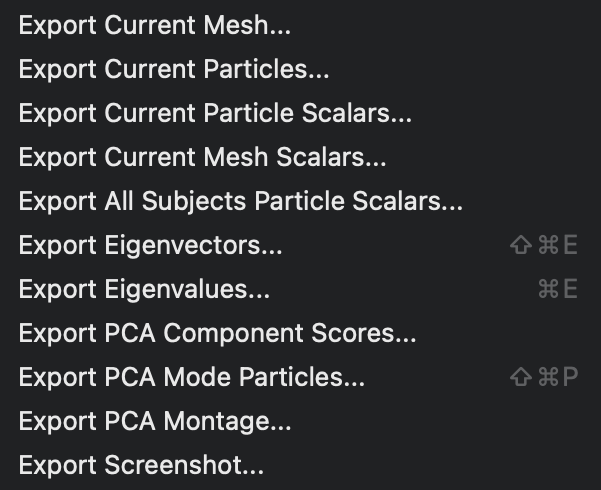
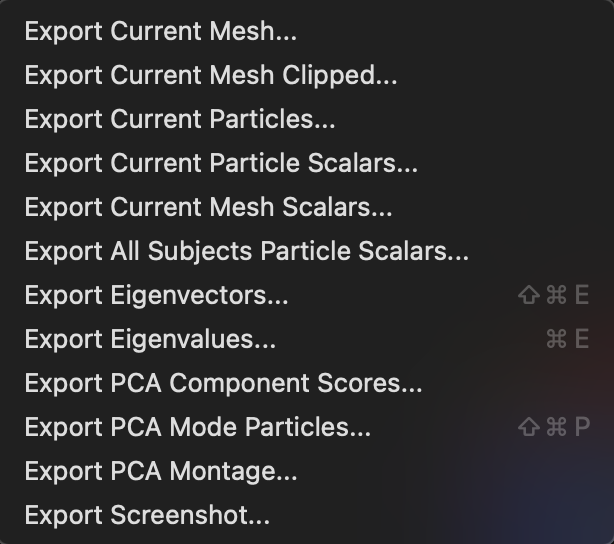
Update optimize panel docs, add export clipped mesh, remove duplicate constraints page
Document all optimization parameters to match redesigned panel UI.
Add Export Current Mesh Clipped to export docs. Delete orphaned
using-constraints.md and redirect its link to studio-data.md.  Update
optimize panel and export menu screenshots.

diff --git a/docs/studio/studio-optimize.md b/docs/studio/studio-optimize.md
@@ -15,14 +15,21 @@ Optimization Parameters
 | Ending Regularization | Sets the ending regularization value. See details about regularization [here](../workflow/optimize.md#starting-and-ending-regularization)  |
 | Iterations per Split | The number of iterations in the initialization step for each split (i.e., scale) |
 | Optimization Iterations | Number of iterations for each optimization step. |
-| Geodesic Distance | Enable the use of geodesic distance for particle to particle interactions.  This is much slower, but can help with some complex structures/ |
+| Narrow Band | Number of voxels surrounding zero level for distance transform based optimizations. Normally a value of 4 is sufficient |
+| Geodesic Distance | Enable the use of geodesic distance for particle to particle interactions. This is much slower, but can help with some complex structures |
+| Geodesic Remesh Percent | Percentage of vertices to use when remeshing for geodesic computation (default: 100). Lower values speed up geodesic calculations |
 | Normals | Enable the use of surface normals as a correspondence feature |
-| Normals Strength | Amount to scale surface normals feature to give it enough weight relative to XYZ. |
-| Procrustes | Enable use of procrustes registration as part of optimization |
-| Procrustes Scaling | Enable scaling as part of procrustes to remove overall scale from the model |
-| Procrustes Rotation/Translation| Enable procrustes rotation/translation to remove translation/rotation from the model |
-| Procrustes Interval | Interval of iterations to run procrustes |
+| Normals Strength | Amount to scale surface normals feature to give it enough weight relative to XYZ |
+| Geodesic from Landmarks | Compute geodesic distance fields from landmarks and use as a correspondence attribute |
+| Geodesic Landmarks Weight | Weight for the geodesic-from-landmarks correspondence term (default: 1.0) |
 | Multiscale Mode | Enable multiscale optimization where each particle split level after the multiscale start number runs in both initialization and optimization modes |
-| Multiscale Start | Number of particles to begin multscale mode |
+| Multiscale Start | Number of particles to begin multiscale mode |
+| Shared Boundary | Enable shared boundary correspondence for multi-domain models with shared surfaces |
+| Shared Boundary Weight | Weight for the shared boundary correspondence term (default: 0.5) |
 | Use Initial Landmarks | Enable the use of landmarks as starting particles |
-| Narrow Band | Number of voxels surrounding zero level for distance transform based optimizations.  Normally a value of 4 is sufficient |
+| Procrustes | Enable use of Procrustes registration as part of optimization |
+| Procrustes Interval | Interval of iterations to run Procrustes |
+| Procrustes Scaling | Enable scaling as part of Procrustes to remove overall scale from the model |
+| Procrustes Rotation/Translation | Enable Procrustes rotation/translation to remove translation/rotation from the model |
+| Sampling Scale | Enable per-domain particle density scaling for multi-domain models. When Auto Scale is checked, the multiplier is computed automatically based on domain surface areas |
+| Sampling Scale Multiplier | Multiplier for particle sampling density scaling (used when Auto Scale is unchecked) |

diff --git a/docs/use-cases/constraint-based/femur-cutting-planes-studio.md b/docs/use-cases/constraint-based/femur-cutting-planes-studio.md
@@ -12,7 +12,7 @@ Follow these instructions to start a new project and define constraints on your 
 
 1. Open ShapeWorks Studio and click "Start New Project" from the Splash Screen. If you just want to explore and not follow, you can just load Shapeworks/Examples/Studio/FemurConstraints/FemurConstraints.xlsx.
 2. Drag-and-drop or import the femurs in Shapeworks/Examples/Studio/FemurConstraints.
-3. Follow [the instructions for using constraints](../../studio/using-constraints.md) to define constraints. Here we define a cutting plane and a free-form constraint to each of four femurs.
+3. Follow [the instructions for using constraints](../../studio/studio-data.md#using-constraints-in-studio) to define constraints. Here we define a cutting plane and a free-form constraint to each of four femurs.
 
 ## Grooming Steps
 

diff --git a/docs/studio/studio-export.md b/docs/studio/studio-export.md
@@ -5,6 +5,7 @@ The File -> Export menu is shown below.
 ![ShapeWorks Studio Export Menu](../img/studio/studio_export_menu.png){: width="200" }
 
 * Export Current Mesh - Export the current mesh as a VTK mesh file
+* Export Current Mesh Clipped - Export the current mesh with cutting plane constraints applied. Also available via right-click on a shape.
 * Export Current Particles - Export the currently display particles as an "X Y Z" particles file
 * Export Current Particle Scalars - Export the currently displayed particle scalars as a CSV file
 * Export Current Mesh Scalars - Export the currently displayed mesh scalars as a CSV file